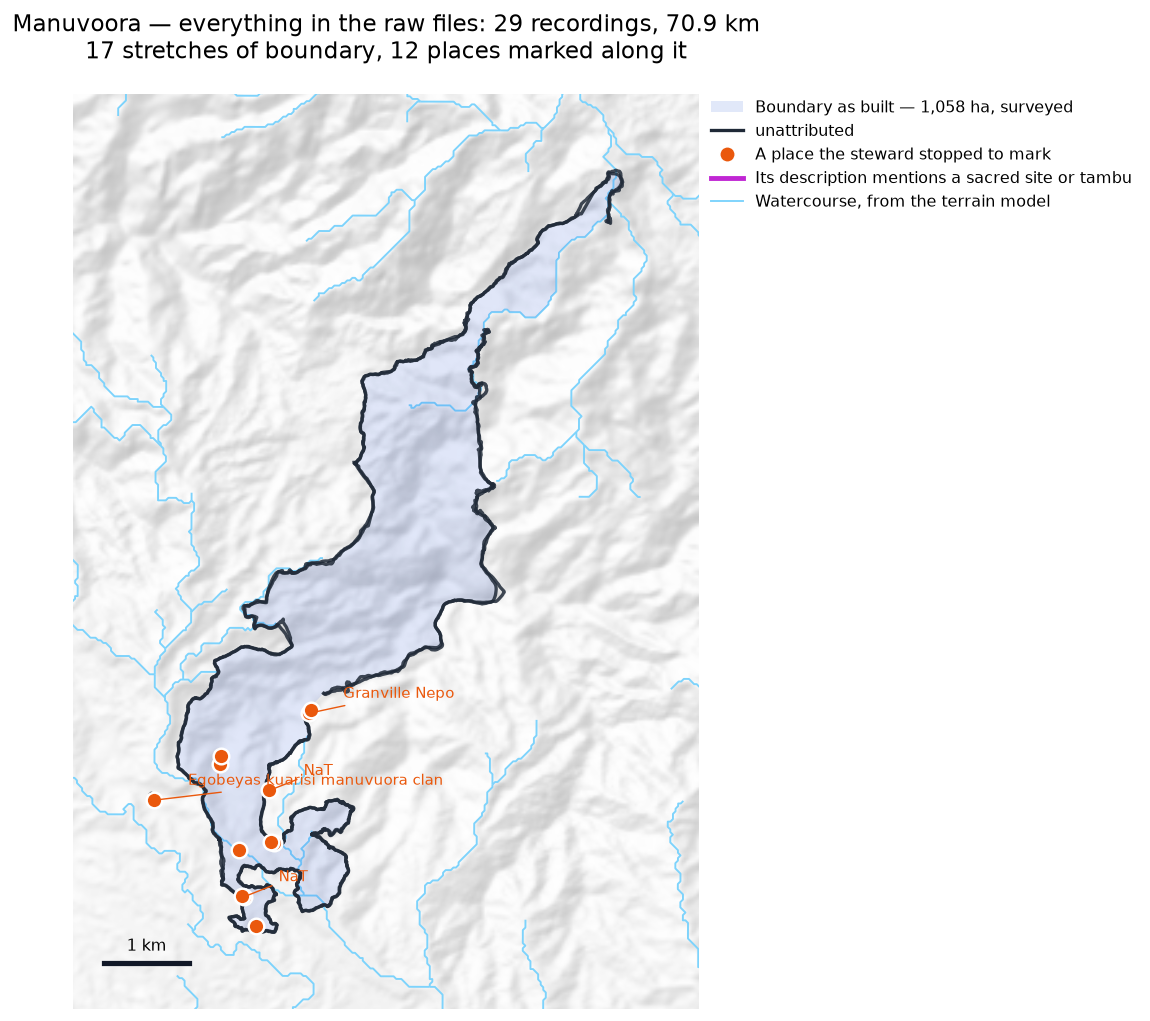
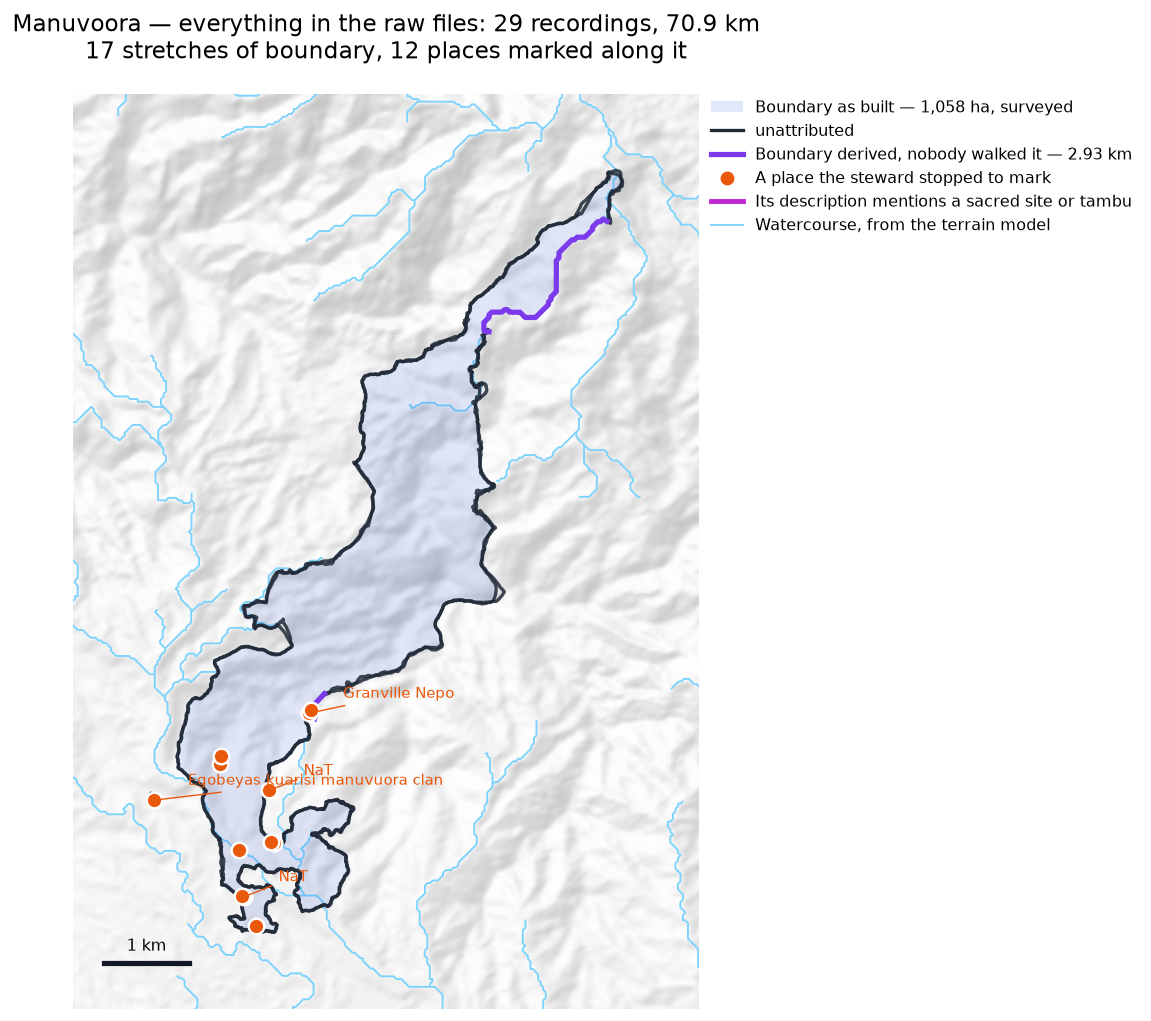
Manuvoora: 2.93 km of its boundary was never walked, and nothing said so
Challenged on calling Manuvoora settled, and the challenge was right.
Two stretches of the polygon edge have no walked line under them:

  2,398 m   100% within 60 m of a watercourse
    152 m   on nothing visible

Both are adopted segments from earlier work and both are honestly
recorded — a 2,485 m river_routed line, "Boundary follows the river.
Four waterfalls lie along it, Ija, Taram, Pururi and Parari from the
north, and the line itself cannot be walked", and four end_joined
segments described as editorial joins nobody walked.

The record was honest; the reporting was not. survey_polygon counts
derived line as part of the geometry but not as a drawn line, so
Manuvoora reports "surveyed, 0 drawn lines" — which reads as the walk
closing it — while 2.93 km of its 32.9 km perimeter, 9%, is derived. The
everything map drew it in black with the recordings, so it could not be
seen there either.

Both fixed: everything_map draws derived boundary in its own colour with
its length in the legend, and recheck prints every adopted segment.

Claude-Session: https://claude.ai/code/session_01K6X75MkuiGQ9rmgDZx45vk

diff --git a/scripts/everything_map.py b/scripts/everything_map.py
@@ -262,6 +262,7 @@ def main(argv: list[str] | None = None) -> int:
     # be compared. A map of the recordings alone cannot show whether the
     # boundary follows them.
     built = None
+    derived: list = []
     try:
         import chord_map
         import polygons as polygon_tools
@@ -275,9 +276,10 @@ def main(argv: list[str] | None = None) -> int:
         if not match.empty:
             unit = match._unit.iloc[0]
             group = published[published._unit == unit]
+            derived = list(polygon_tools.adopted_segments(unit))
             built = polygon_tools.survey_polygon(
                 chord_map.parts_of(group), 25.0, 0.50, 0.10,
-                derived=polygon_tools.adopted_segments(unit), unit=unit)
+                derived=derived, unit=unit)
     except Exception as error:
         print(f"  (could not build the polygon: {error})")
 
@@ -301,6 +303,12 @@ def main(argv: list[str] | None = None) -> int:
     if built is not None:
         gpd.GeoSeries([built["geometry"]], crs=dataio.METRIC_CRS).plot(
             ax=axis, color="#1d4ed8", alpha=0.13, edgecolor="none", zorder=2)
+        # Boundary nobody walked, adopted in earlier work. Drawn in black
+        # with the recordings it was indistinguishable from them, and
+        # Manuvoora carries 2.9 km of it under a line that reads
+        # "surveyed, 0 drawn lines".
+        for segment in derived:
+            axis.plot(*segment.xy, color="#7c3aed", lw=3.0, zorder=6)
         for bridge in built["bridges"]:
             axis.plot(*bridge.xy, color="#db2777", lw=2.4,
                       linestyle=(0, (5, 3)), zorder=7)
@@ -384,6 +392,11 @@ def main(argv: list[str] | None = None) -> int:
                   f"{built['basis']}"))
     handles += [Line2D([0], [0], color=colours[name], lw=1.9, label=name)
                 for name in walkers]
+    if derived:
+        handles.append(Line2D(
+            [0], [0], color="#7c3aed", lw=3.0,
+            label=f"Boundary derived, nobody walked it — "
+                  f"{sum(d.length for d in derived) / 1000:.2f} km"))
     if built is not None and built["bridges"]:
         handles.append(Line2D(
             [0], [0], color="#db2777", lw=2.4, linestyle=(0, (5, 3)),

diff --git a/scripts/recheck.py b/scripts/recheck.py
@@ -64,9 +64,19 @@ def main(argv: list[str] | None = None) -> int:
     pub_km = group.geometry.length.sum() / 1000
 
     print(f"{unit}\n")
+    # "surveyed, 0 drawn lines" reads as "the walk closes it", and on
+    # Manuvoora that hid 2.9 km of adopted river route and editorial
+    # joins. Derived line is boundary nobody walked, and it is said here.
+    derived = list(polygon_tools.adopted_segments(unit))
     print(f"  approved           {approved['area_ha']:9,.0f} ha  "
           f"basis {approved['basis']}, "
           f"{len(approved['bridges'])} drawn line(s)")
+    if derived:
+        print(f"     plus {len(derived)} adopted segment(s), "
+              f"{sum(d.length for d in derived) / 1000:.2f} km of boundary "
+              f"nobody walked:")
+        for segment in derived:
+            print(f"       {segment.length:7.0f} m")
     print(f"  published          {pub_km:9.1f} km in {len(group)} recordings")
     print(f"  raw archives       {raw_km:9.1f} km in {len(found)} recordings")
     print(f"     hidden from the map: {raw_km - pub_km:.1f} km")
